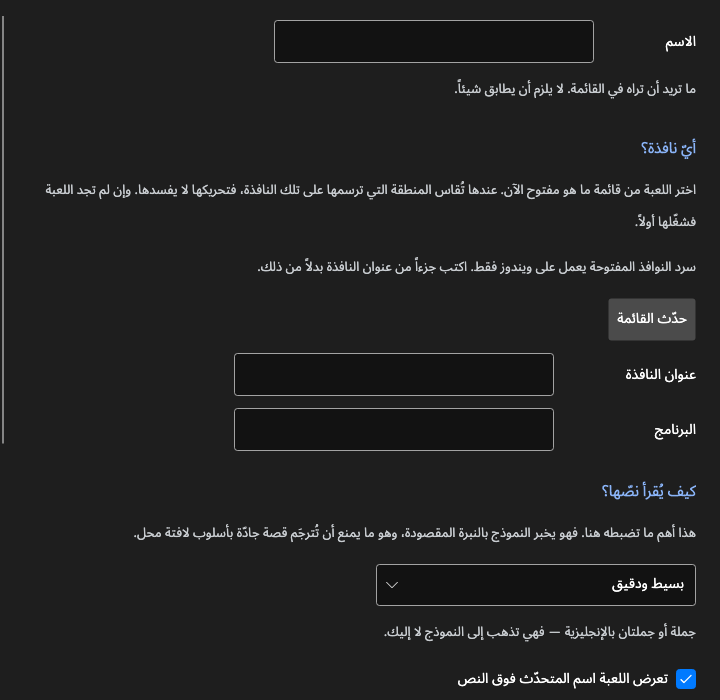
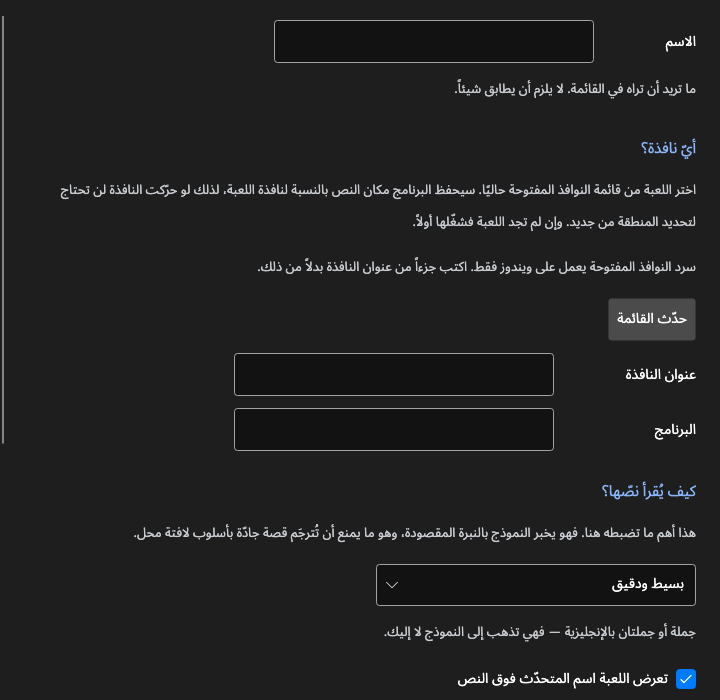
Reword the window-picking note, from a native reader
"اختر اللعبة من قائمة ما هو مفتوح الآن" parses but does not sound like
Arabic anyone writes; "قائمة النوافذ المفتوحة حاليًا" does. And the second
half explained the mechanism - that the region is measured against the
window - where it should have said what that means for the reader: move the
window and you will not have to pick the region again.

Applied to the same sentence in README.ar.md, which had the earlier wording.

Changed region(s): [[0.0611, 0.24, 0.9778, 0.33]]

diff --git a/src/GlassHudTranslator.Core/Config/UiText.cs b/src/GlassHudTranslator.Core/Config/UiText.cs
@@ -587,8 +587,9 @@ public sealed class UiText
         GameNameNote = "ما تريد أن تراه في القائمة. لا يلزم أن يطابق شيئاً.",
         WhichWindow = "أيّ نافذة؟",
         WhichWindowNote =
-            "اختر اللعبة من قائمة ما هو مفتوح الآن. عندها تُقاس المنطقة التي ترسمها على تلك "
-            + "النافذة، فتحريكها لا يفسدها. وإن لم تجد اللعبة فشغّلها أولاً.",
+            "اختر اللعبة من قائمة النوافذ المفتوحة حاليًا. سيحفظ البرنامج مكان النص بالنسبة "
+            + "لنافذة اللعبة، لذلك لو حرّكت النافذة لن تحتاج لتحديد المنطقة من جديد. وإن لم تجد "
+            + "اللعبة فشغّلها أولاً.",
         RefreshWindowList = "حدّث القائمة",
         NoWindowsListed = "لم يُعثر على شيء. شغّل اللعبة ثم حدّث القائمة.",
         WindowListWindowsOnly =
